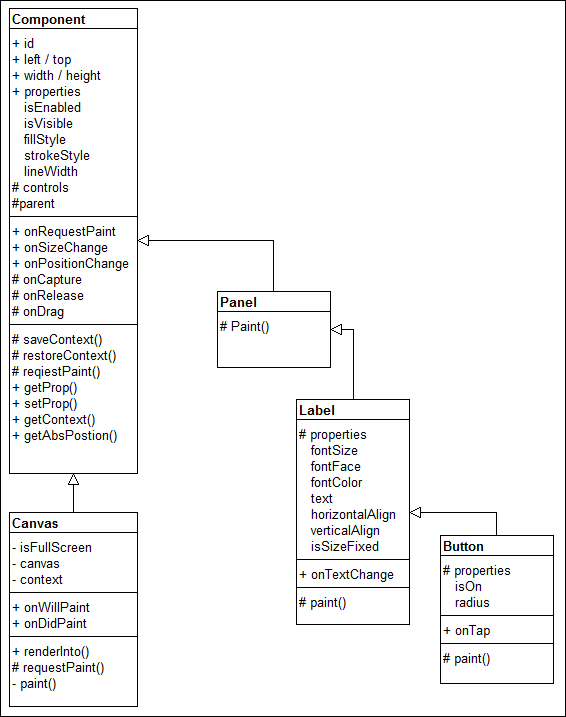
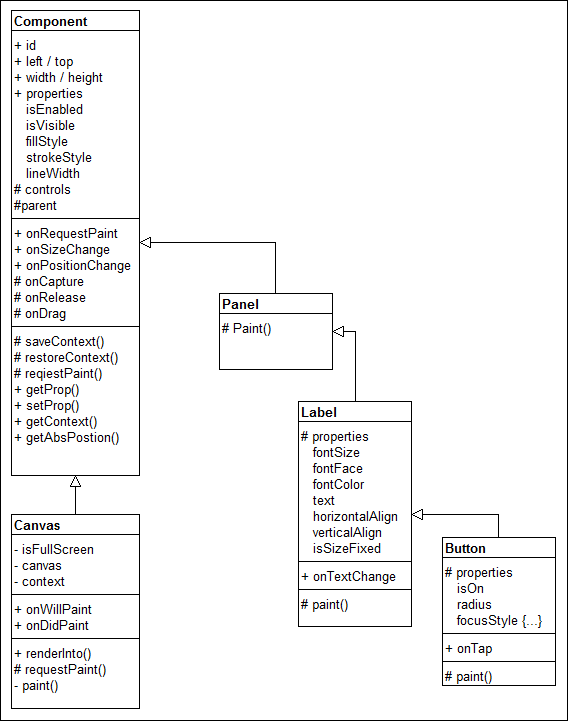
Enhance Button to add properties for focusStyle

diff --git a/docs/reference.html b/docs/reference.html
@@ -159,13 +159,13 @@
                     <tr>
                         <td colspan="2">
                             <pre>
-    var canvas = new Canvas(500, 100);
-    canvas.setProp('lineWidth', 1);
-    canvas.setProp('strokeStyle', '#333');
-    canvas.setProp('fillStyle', 'RGBA(0, 0, 0, 0.5)');
-    var wrapper = document.getElementById('brief-look-wrapper');
-    canvas.renderInto(wrapper);
-                        </pre>
+var canvas = new Canvas(500, 100);
+canvas.setProp('lineWidth', 1);
+canvas.setProp('strokeStyle', '#333');
+canvas.setProp('fillStyle', 'RGBA(0, 0, 0, 0.5)');
+var wrapper = document.getElementById('brief-look-wrapper');
+canvas.renderInto(wrapper);
+                            </pre>
                         </td>
                     </tr>
                 </table>
@@ -199,12 +199,12 @@
                     <tr>
                         <td colspan="2">
                             <pre>
-    var panel = new Panel(10, 10, 500, 100);
-    panel.setProp('lineWidth', 1);
-    panel.setProp('strokeStyle', '#333');
-    panel.setProp('fillStyle', 'RGBA(0, 0, 0, 0.5)');
-    canvas.controls.add(panel);
-                        </pre>
+var panel = new Panel(10, 10, 500, 100);
+panel.setProp('lineWidth', 1);
+panel.setProp('strokeStyle', '#333');
+panel.setProp('fillStyle', 'RGBA(0, 0, 0, 0.5)');
+canvas.controls.add(panel);
+                            </pre>
                         </td>
                     </tr>
                 </table>
@@ -310,11 +310,11 @@
                     <tr>
                         <td colspan="2">
                             <pre>
-    var label = new Label(10, 10, 0, 0, 'Label Text', 'label1')
-    label.setProp('isVisible', false);
-    label.setProp('fontSize', 20);
-    canvas.controls.add(label);
-                        </pre>
+var label = new Label(10, 10, 0, 0, 'Label Text', 'label1')
+label.setProp('isVisible', false);
+label.setProp('fontSize', 20);
+canvas.controls.add(label);
+                            </pre>
                         </td>
                     </tr>
                 </table>
@@ -323,7 +323,91 @@
         <a name="button"></a>
         <section>
             <h2>[Class] Button</h2>
-            <p>TBD</p>
+            <p>
+                Button is derived from Label.
+            </p>
+            <p>
+                <table class="api-table">
+                    <tr>
+                        <th colspan="2">Constructor</th>
+                    </tr>
+                    <tr>
+                        <td colspan="2">
+                            var button = new Button(left, top, width, height, text, id);
+                            <p><strong>left:</strong> Left of the control, which is relative to its parent.</p>
+                            <p><strong>top:</strong> Top of the control, which is relative to its parent.</p>
+                            <p><strong>width:</strong> Width of the control. </p>
+                            <p><strong>height:</strong> Height of the control. </p>
+                            <p><strong>text:</strong> The text content to be renderred.</p>
+                            <p><strong>id:</strong> Optional, and you may leave it empty.</p>
+                        </td>
+                    </tr>
+                    <tr>
+                        <th colspan="2">Properties</th>
+                    </tr>
+                    <tr>
+                        <td class="key" style="width: 150px;">
+                            isOn
+                        </td>
+                        <td>
+                            Default Value: false
+                        </td>
+                    </tr>
+                    <tr>
+                        <td class="key" style="width: 150px;">
+                            radius
+                        </td>
+                        <td>
+                            Default Value: 0
+                        </td>
+                    </tr>
+                    <tr>
+                        <td class="key" style="width: 150px;">
+                            focusStyle
+                        </td>
+                        <td>
+                            Default Value:
+                            <pre>
+{
+  fillStyle: '#337AB7',
+  strokeStyle: '#337AB7',
+  lineWidth: 1,
+  fontColor: '#fff'
+}
+                            </pre>
+                        </td>
+                    </tr>
+                    <tr>
+                        <th colspan="2">Events</th>
+                    </tr>
+                    <tr>
+                        <td class="key">
+                            onTap(left, top)
+                        </td>
+                        <td>
+                            The event for button click with the position on which the button is clicked.
+                        </td>
+                    </tr>
+                    <tr>
+                        <th colspan="2">Example</th>
+                    </tr>
+                    <tr>
+                        <td colspan="2">
+                            <pre>
+var button = new Button(10, 10, 130, 32, 'Save');
+button.setProp('focusStyle', {
+  'fontColor': '#f00',
+  'strokeStyle': '#f00'
+});
+button.onTap.add(function(left, top) {
+  console.log('Button has been clicked at [' + left + ', ' + top + ']')
+});
+canvas.controls.add(button);
+                            </pre>
+                        </td>
+                    </tr>
+                </table>
+            </p>
         </section>
     </div>
     <div class="footer">

diff --git a/src/button.js b/src/button.js
@@ -25,17 +25,26 @@
       // Extend properties
       var newProperties = {
         isOn: false,
-        radius: 0
+        radius: 0,
+        focusStyle: {
+          fillStyle: '#337AB7',
+          strokeStyle: '#337AB7',
+          lineWidth: 1,
+          fontColor: '#fff'
+        }
       };
       this.properties = Object.assign({}, this.properties, newProperties);
+
+      // Set the default value of properties
+      this.properties['fillStyle'] = '#FFF';
+      this.properties['strokeStyle'] = '#337AB7';
+      this.properties['lineWidth'] = 1;
+      this.properties['fontColor'] = '#337AB7';
 
       // Register the internal events
       this.onCapture.add(this.handleCapture.bind(this));
       this.onRelease.add(this.handleRelease.bind(this));
       this.onDrag.add(this.handleDrag.bind(this));
-
-      // Default font color
-      this.properties['fontColor'] = '#337AB7';
     },
 
     paint: function(context) {
@@ -44,11 +53,13 @@
 
       // Render the button border and background
       if (this.capturedPosition || this.getProp('isOn')) {
-        context.fillStyle = "#337AB7";
-        context.strokeStyle = "#337AB7";
+        context.fillStyle = this.getProp('focusStyle', 'fillStyle');
+        context.strokeStyle = this.getProp('focusStyle', 'strokeStyle');
+        context.lineWidth = this.getProp('focusStyle', 'lineWidth');
       } else {
-        context.fillStyle = "#FFF";
-        context.strokeStyle = "#337AB7";
+        context.fillStyle = this.getProp('fillStyle');
+        context.strokeStyle = this.getProp('strokeStyle');
+        context.lineWidth = this.getProp('lineWidth');
       }
 
       if (this.getProp('radius') == 0) {
@@ -68,7 +79,7 @@
       // Render the text
       if (this.getProp('text')) {
         if (this.capturedPosition || this.getProp('isOn')) {
-          context.fillStyle = '#fff';
+          context.fillStyle = this.getProp('focusStyle', 'fontColor');
         } else {
           context.fillStyle = this.getProp('fontColor');
         }
@@ -80,15 +91,28 @@
       this.restoreContext(context);
     },
 
-    setIsOn: function(isOn) {
-      if (this.setProp('isOn', isOn)) {
-        this.requestPaint();
-      }
-    },
+    setProp: function(key, value) {
+      this._super(key, value);
 
-    setRadius: function(radius) {
-      if (this.setProp('radius', radius)) {
-        this.requestPaint();
+      switch (key) {
+        case 'isOn':
+          if (this.updatePropValue('isOn', value)) {
+            this.requestPaint();
+          }
+          break;
+        case 'radius':
+          if (this.updatePropValue('radius', value)) {
+            this.requestPaint();
+          }
+          break;
+        case 'focusStyle':
+          // TODO: to be enhanced
+          this.properties['focusStyle'] = Object.assign(
+            this.properties['focusStyle'],
+            value
+          );
+          this.requestPaint();
+          break;
       }
     },
 

diff --git a/src/component.js b/src/component.js
@@ -100,8 +100,16 @@
     },
 
     // Set the value of the property
-    getProp: function(key) {
-      return this.properties[key];
+    getProp: function(key, subKey) {
+      if (key == null) {
+        return null;
+      }
+
+      if (this.properties[key] != null && subKey != null) {
+        return this.properties[key][subKey];
+      } else {
+        return this.properties[key];
+      }
     },
 
     // Set te value of the property
